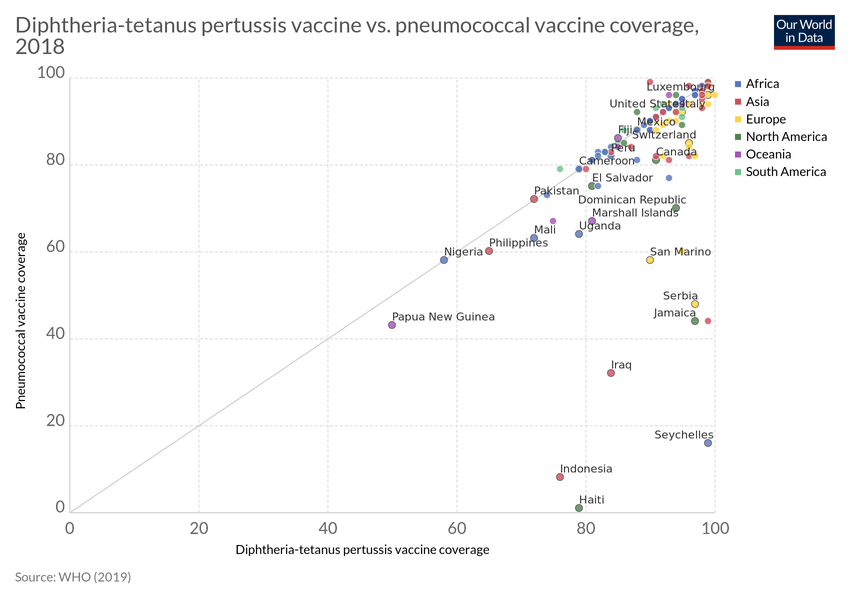
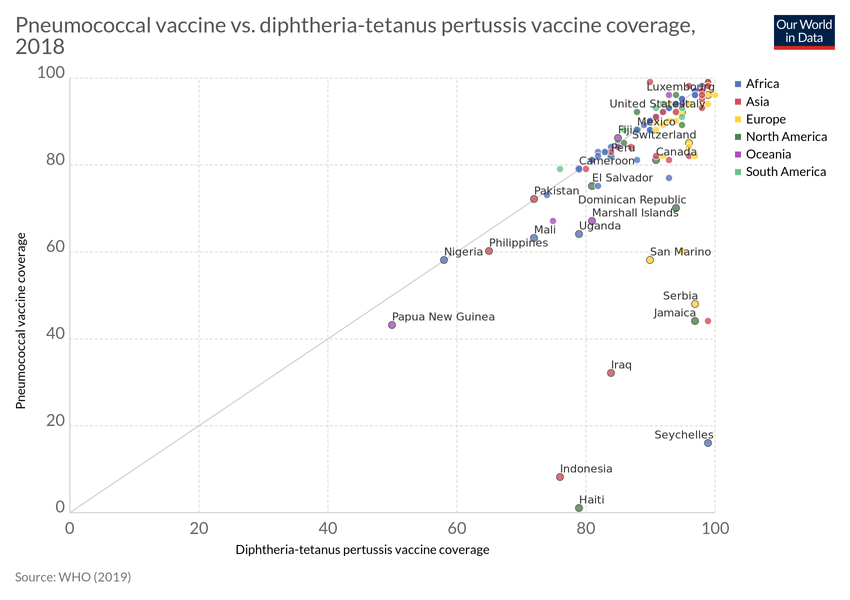
Updating chart diphtheria-tetanus-pertussis-vaccine-vs-pneumococcal-vaccine-coverage

Changed region(s): [[0.0, 0.03, 0.8259, 0.06]]

diff --git a/grapher/diphtheria-tetanus-pertussis-vaccine-vs-pneumococcal-vaccine-coverage.html b/grapher/diphtheria-tetanus-pertussis-vaccine-vs-pneumococcal-vaccine-coverage.html
@@ -1,11 +1,11 @@
-<!doctype html><html><head><meta name="viewport" content="width=device-width, initial-scale=1"/><title>Diphtheria-tetanus pertussis vaccine vs. pneumococcal vaccine coverage - Our World in Data</title><meta name="description" content="An interactive visualization from Our World in Data."/><link rel="canonical" href="https://ourworldindata.org/grapher/diphtheria-tetanus-pertussis-vaccine-vs-pneumococcal-vaccine-coverage"/><link rel="alternate" type="application/atom+xml" href="/atom.xml"/><link rel="apple-touch-icon" sizes="180x180" href="/apple-touch-icon.png"/><meta property="fb:app_id" content="1149943818390250"/><meta property="og:url" content="https://ourworldindata.org/grapher/diphtheria-tetanus-pertussis-vaccine-vs-pneumococcal-vaccine-coverage"/><meta property="og:title" content="Diphtheria-tetanus pertussis vaccine vs. pneumococcal vaccine coverage"/><meta property="og:description" content="An interactive visualization from Our World in Data."/><meta property="og:image" content="https://ourworldindata.org/grapher/exports/diphtheria-tetanus-pertussis-vaccine-vs-pneumococcal-vaccine-coverage.png?v=5"/><meta property="og:site_name" content="Our World in Data"/><meta name="twitter:card" content="summary_large_image"/><meta name="twitter:site" content="@OurWorldInData"/><meta name="twitter:creator" content="@OurWorldInData"/><meta name="twitter:title" content="Diphtheria-tetanus pertussis vaccine vs. pneumococcal vaccine coverage"/><meta name="twitter:description" content="An interactive visualization from Our World in Data."/><meta name="twitter:image" content="https://ourworldindata.org/grapher/exports/diphtheria-tetanus-pertussis-vaccine-vs-pneumococcal-vaccine-coverage.png?v=5"/><link href="https://fonts.googleapis.com/css?family=Lato:300,400,400i,700,700i|Playfair+Display:400,700" rel="stylesheet"/><link rel="stylesheet" href="https://ourworldindata.org/assets/css/commons.css"/><link rel="stylesheet" href="https://ourworldindata.org/assets/css/owid.css"/><meta property="og:image:width" content="850"/><meta property="og:image:height" content="600"/><script>
+<!doctype html><html><head><meta name="viewport" content="width=device-width, initial-scale=1"/><title>Pneumococcal vaccine vs. diphtheria-tetanus pertussis vaccine coverage - Our World in Data</title><meta name="description" content="An interactive visualization from Our World in Data."/><link rel="canonical" href="https://ourworldindata.org/grapher/diphtheria-tetanus-pertussis-vaccine-vs-pneumococcal-vaccine-coverage"/><link rel="alternate" type="application/atom+xml" href="/atom.xml"/><link rel="apple-touch-icon" sizes="180x180" href="/apple-touch-icon.png"/><meta property="fb:app_id" content="1149943818390250"/><meta property="og:url" content="https://ourworldindata.org/grapher/diphtheria-tetanus-pertussis-vaccine-vs-pneumococcal-vaccine-coverage"/><meta property="og:title" content="Pneumococcal vaccine vs. diphtheria-tetanus pertussis vaccine coverage"/><meta property="og:description" content="An interactive visualization from Our World in Data."/><meta property="og:image" content="https://ourworldindata.org/grapher/exports/diphtheria-tetanus-pertussis-vaccine-vs-pneumococcal-vaccine-coverage.png?v=9"/><meta property="og:site_name" content="Our World in Data"/><meta name="twitter:card" content="summary_large_image"/><meta name="twitter:site" content="@OurWorldInData"/><meta name="twitter:creator" content="@OurWorldInData"/><meta name="twitter:title" content="Pneumococcal vaccine vs. diphtheria-tetanus pertussis vaccine coverage"/><meta name="twitter:description" content="An interactive visualization from Our World in Data."/><meta name="twitter:image" content="https://ourworldindata.org/grapher/exports/diphtheria-tetanus-pertussis-vaccine-vs-pneumococcal-vaccine-coverage.png?v=9"/><link href="https://fonts.googleapis.com/css?family=Lato:300,400,400i,700,700i|Playfair+Display:400,700" rel="stylesheet"/><link rel="stylesheet" href="https://ourworldindata.org/assets/css/commons.css"/><link rel="stylesheet" href="https://ourworldindata.org/assets/css/owid.css"/><meta property="og:image:width" content="850"/><meta property="og:image:height" content="600"/><script>
     if (window != window.top) {
         document.documentElement.classList.add('iframe')
     }
 </script><noscript><style>
                     figure { display: none !important; }
-                </style></noscript><link rel="stylesheet" href="https://ourworldindata.org/assets/css/commons.css"/><link rel="preload" href="/grapher/data/variables/104660+104697+123.json?v=5" as="fetch" crossorigin="anonymous"/></head><body class="ChartPage"><header class="site-header"><div class="wrapper site-navigation-bar"><div class="site-logo"><a href="/">Our World<br/> in Data</a></div><nav class="site-navigation lg-only"><div class="topics-button-wrapper"><a href="/#entries" class="topics-button"><div class="label">Research <br/><strong>by topic</strong></div><div class="icon"><svg width="12" height="6"><path d="M0,0 L12,0 L6,6 Z" fill="currentColor"></path></svg></div></a></div><div><div class="site-primary-navigation"><form class="HeaderSearch" action="/search" method="GET"><input type="search" name="q" placeholder="Search..."/><div class="icon"><svg aria-hidden="true" focusable="false" data-prefix="fas" data-icon="search" class="svg-inline--fa fa-search fa-w-16 " role="img" xmlns="http://www.w3.org/2000/svg" viewBox="0 0 512 512"><path fill="currentColor" d="M505 442.7L405.3 343c-4.5-4.5-10.6-7-17-7H372c27.6-35.3 44-79.7 44-128C416 93.1 322.9 0 208 0S0 93.1 0 208s93.1 208 208 208c48.3 0 92.7-16.4 128-44v16.3c0 6.4 2.5 12.5 7 17l99.7 99.7c9.4 9.4 24.6 9.4 33.9 0l28.3-28.3c9.4-9.4 9.4-24.6.1-34zM208 336c-70.7 0-128-57.2-128-128 0-70.7 57.2-128 128-128 70.7 0 128 57.2 128 128 0 70.7-57.2 128-128 128z"></path></svg></div></form><ul class="site-primary-links"><li><a href="/blog" data-track-click="true" data-track-note="header-navigation">Latest</a></li><li><a href="/about" data-track-click="true" data-track-note="header-navigation">About</a></li><li><a href="/donate" data-track-click="true" data-track-note="header-navigation">Donate</a></li></ul></div><div class="site-secondary-navigation"><ul class="site-secondary-links"><li><a href="/charts" data-track-click="true" data-track-note="header-navigation">All charts</a></li><li><a href="https://sdg-tracker.org" data-track-click="true" data-track-note="header-navigation">Sustainable Development Goals Tracker</a></li></ul></div></div></nav><ul class="site-social-links lg-only"><li><a href="https://twitter.com/ourworldindata" target="_blank" rel="noopener noreferrer" title="Follow us on Twitter" data-track-click="true" data-track-note="header-navigation"><svg aria-hidden="true" focusable="false" data-prefix="fab" data-icon="twitter" class="svg-inline--fa fa-twitter fa-w-16 " role="img" xmlns="http://www.w3.org/2000/svg" viewBox="0 0 512 512"><path fill="currentColor" d="M459.37 151.716c.325 4.548.325 9.097.325 13.645 0 138.72-105.583 298.558-298.558 298.558-59.452 0-114.68-17.219-161.137-47.106 8.447.974 16.568 1.299 25.34 1.299 49.055 0 94.213-16.568 130.274-44.832-46.132-.975-84.792-31.188-98.112-72.772 6.498.974 12.995 1.624 19.818 1.624 9.421 0 18.843-1.3 27.614-3.573-48.081-9.747-84.143-51.98-84.143-102.985v-1.299c13.969 7.797 30.214 12.67 47.431 13.319-28.264-18.843-46.781-51.005-46.781-87.391 0-19.492 5.197-37.36 14.294-52.954 51.655 63.675 129.3 105.258 216.365 109.807-1.624-7.797-2.599-15.918-2.599-24.04 0-57.828 46.782-104.934 104.934-104.934 30.213 0 57.502 12.67 76.67 33.137 23.715-4.548 46.456-13.32 66.599-25.34-7.798 24.366-24.366 44.833-46.132 57.827 21.117-2.273 41.584-8.122 60.426-16.243-14.292 20.791-32.161 39.308-52.628 54.253z"></path></svg></a></li><li><a href="https://www.facebook.com/OurWorldinData/" target="_blank" rel="noopener noreferrer" title="Subscribe to our Facebook page" data-track-click="true" data-track-note="header-navigation"><svg aria-hidden="true" focusable="false" data-prefix="fab" data-icon="facebook-square" class="svg-inline--fa fa-facebook-square fa-w-14 " role="img" xmlns="http://www.w3.org/2000/svg" viewBox="0 0 448 512"><path fill="currentColor" d="M400 32H48A48 48 0 0 0 0 80v352a48 48 0 0 0 48 48h137.25V327.69h-63V256h63v-54.64c0-62.15 37-96.48 93.67-96.48 27.14 0 55.52 4.84 55.52 4.84v61h-31.27c-30.81 0-40.42 19.12-40.42 38.73V256h68.78l-11 71.69h-57.78V480H400a48 48 0 0 0 48-48V80a48 48 0 0 0-48-48z"></path></svg></a></li><li><a href="/subscribe" target="_blank" rel="noopener noreferrer" title="Subscribe to our newsletter" data-track-click="true" data-track-note="header-navigation"><svg aria-hidden="true" focusable="false" data-prefix="fas" data-icon="envelope" class="svg-inline--fa fa-envelope fa-w-16 " role="img" xmlns="http://www.w3.org/2000/svg" viewBox="0 0 512 512"><path fill="currentColor" d="M502.3 190.8c3.9-3.1 9.7-.2 9.7 4.7V400c0 26.5-21.5 48-48 48H48c-26.5 0-48-21.5-48-48V195.6c0-5 5.7-7.8 9.7-4.7 22.4 17.4 52.1 39.5 154.1 113.6 21.1 15.4 56.7 47.8 92.2 47.6 35.7.3 72-32.8 92.3-47.6 102-74.1 131.6-96.3 154-113.7zM256 320c23.2.4 56.6-29.2 73.4-41.4 132.7-96.3 142.8-104.7 173.4-128.7 5.8-4.5 9.2-11.5 9.2-18.9v-19c0-26.5-21.5-48-48-48H48C21.5 64 0 85.5 0 112v19c0 7.4 3.4 14.3 9.2 18.9 30.6 23.9 40.7 32.4 173.4 128.7 16.8 12.2 50.2 41.8 73.4 41.4z"></path></svg></a></li></ul><div class="site-navigation sm-only"><button data-track-click="true" data-track-note="mobile-search-button"><svg aria-hidden="true" focusable="false" data-prefix="fas" data-icon="search" class="svg-inline--fa fa-search fa-w-16 " role="img" xmlns="http://www.w3.org/2000/svg" viewBox="0 0 512 512"><path fill="currentColor" d="M505 442.7L405.3 343c-4.5-4.5-10.6-7-17-7H372c27.6-35.3 44-79.7 44-128C416 93.1 322.9 0 208 0S0 93.1 0 208s93.1 208 208 208c48.3 0 92.7-16.4 128-44v16.3c0 6.4 2.5 12.5 7 17l99.7 99.7c9.4 9.4 24.6 9.4 33.9 0l28.3-28.3c9.4-9.4 9.4-24.6.1-34zM208 336c-70.7 0-128-57.2-128-128 0-70.7 57.2-128 128-128 70.7 0 128 57.2 128 128 0 70.7-57.2 128-128 128z"></path></svg></button><button data-track-click="true" data-track-note="mobile-hamburger-button"><svg aria-hidden="true" focusable="false" data-prefix="fas" data-icon="bars" class="svg-inline--fa fa-bars fa-w-14 " role="img" xmlns="http://www.w3.org/2000/svg" viewBox="0 0 448 512"><path fill="currentColor" d="M16 132h416c8.837 0 16-7.163 16-16V76c0-8.837-7.163-16-16-16H16C7.163 60 0 67.163 0 76v40c0 8.837 7.163 16 16 16zm0 160h416c8.837 0 16-7.163 16-16v-40c0-8.837-7.163-16-16-16H16c-8.837 0-16 7.163-16 16v40c0 8.837 7.163 16 16 16zm0 160h416c8.837 0 16-7.163 16-16v-40c0-8.837-7.163-16-16-16H16c-8.837 0-16 7.163-16 16v40c0 8.837 7.163 16 16 16z"></path></svg></button></div></div></header><main><figure data-grapher-src="/grapher/diphtheria-tetanus-pertussis-vaccine-vs-pneumococcal-vaccine-coverage"></figure><noscript id="fallback"><h1>Diphtheria-tetanus pertussis vaccine vs. pneumococcal vaccine coverage</h1><p></p><img src="https://ourworldindata.org/grapher/exports/diphtheria-tetanus-pertussis-vaccine-vs-pneumococcal-vaccine-coverage.svg"/><p>Interactive visualization requires JavaScript</p></noscript></main><script src="https://cdn.polyfill.io/v2/polyfill.min.js?features=es6,fetch"></script><script src="https://ourworldindata.org/assets/js/commons.js"></script><script src="https://ourworldindata.org/assets/js/owid.js"></script><script>
-        var jsonConfig = {"id":3617,"map":{"projection":"World","colorSchemeLabels":[],"colorSchemeValues":[],"customNumericColors":[],"customCategoryColors":{},"customCategoryLabels":{},"customHiddenCategories":{}},"tab":"chart","data":{"availableEntities":["Afghanistan","Albania","Algeria","Andorra","Angola","Antigua and Barbuda","Argentina","Armenia","Australia","Azerbaijan","Bahamas","Bahrain","Bangladesh","Barbados","Belarus","Belgium","Benin","Bolivia","Botswana","Brazil","Bulgaria","Burkina Faso","Burundi","Cambodia","Cameroon","Canada","Central African Republic","Chile","Colombia","Congo","Costa Rica","Cote d'Ivoire","Cyprus","Democratic Republic of Congo","Denmark","Djibouti","Dominican Republic","Ecuador","El Salvador","Eritrea","Ethiopia","Fiji","Finland","France","Gambia","Georgia","Germany","Ghana","Greece","Guatemala","Guinea-Bissau","Guyana","Haiti","Honduras","Hungary","Iceland","India","Indonesia","Iraq","Ireland","Israel","Italy","Jamaica","Japan","Kazakhstan","Kenya","Kiribati","Kuwait","Kyrgyzstan","Laos","Latvia","Lebanon","Lesotho","Liberia","Libya","Lithuania","Luxembourg","Madagascar","Malawi","Mali","Marshall Islands","Mauritania","Mauritius","Mexico","Micronesia (country)","Moldova","Mongolia","Morocco","Mozambique","Myanmar","Namibia","Nepal","Netherlands","New Zealand","Nicaragua","Niger","Nigeria","Niue","Norway","Oman","Pakistan","Palau","Panama","Papua New Guinea","Paraguay","Peru","Philippines","Poland","Portugal","Qatar","Russia","Rwanda","San Marino","Sao Tome and Principe","Saudi Arabia","Senegal","Serbia","Seychelles","Sierra Leone","Singapore","Slovakia","Slovenia","Solomon Islands","South Africa","South Korea","Spain","Sudan","Swaziland","Sweden","Switzerland","Tanzania","Togo","Tonga","Trinidad and Tobago","Turkey","Uganda","United Arab Emirates","United Kingdom","United States","Uruguay","Uzbekistan","Venezuela","Yemen","Zambia","Zimbabwe"]},"slug":"diphtheria-tetanus-pertussis-vaccine-vs-pneumococcal-vaccine-coverage","type":"ScatterPlot","title":"Diphtheria-tetanus pertussis vaccine vs. pneumococcal vaccine coverage","xAxis":{"max":100,"min":0,"scaleType":"linear"},"yAxis":{"max":100,"min":0,"scaleType":"linear"},"maxTime":2018,"minTime":2018,"version":5,"hasMapTab":false,"stackMode":"absolute","dimensions":[{"display":{"name":"Pneumococcal vaccine coverage"},"property":"y","variableId":104660},{"display":{"name":"Diphtheria-tetanus pertussis vaccine coverage"},"property":"x","variableId":104697},{"display":{},"property":"color","variableId":123}],"sourceDesc":"WHO (2019)","hasChartTab":true,"isPublished":true,"selectedData":[],"comparisonLines":[{}],"hideRelativeToggle":true};
+                </style></noscript><link rel="stylesheet" href="https://ourworldindata.org/assets/css/commons.css"/><link rel="preload" href="/grapher/data/variables/104660+104697+123.json?v=9" as="fetch" crossorigin="anonymous"/></head><body class="ChartPage"><header class="site-header"><div class="wrapper site-navigation-bar"><div class="site-logo"><a href="/">Our World<br/> in Data</a></div><nav class="site-navigation lg-only"><div class="topics-button-wrapper"><a href="/#entries" class="topics-button"><div class="label">Research <br/><strong>by topic</strong></div><div class="icon"><svg width="12" height="6"><path d="M0,0 L12,0 L6,6 Z" fill="currentColor"></path></svg></div></a></div><div><div class="site-primary-navigation"><form class="HeaderSearch" action="/search" method="GET"><input type="search" name="q" placeholder="Search..."/><div class="icon"><svg aria-hidden="true" focusable="false" data-prefix="fas" data-icon="search" class="svg-inline--fa fa-search fa-w-16 " role="img" xmlns="http://www.w3.org/2000/svg" viewBox="0 0 512 512"><path fill="currentColor" d="M505 442.7L405.3 343c-4.5-4.5-10.6-7-17-7H372c27.6-35.3 44-79.7 44-128C416 93.1 322.9 0 208 0S0 93.1 0 208s93.1 208 208 208c48.3 0 92.7-16.4 128-44v16.3c0 6.4 2.5 12.5 7 17l99.7 99.7c9.4 9.4 24.6 9.4 33.9 0l28.3-28.3c9.4-9.4 9.4-24.6.1-34zM208 336c-70.7 0-128-57.2-128-128 0-70.7 57.2-128 128-128 70.7 0 128 57.2 128 128 0 70.7-57.2 128-128 128z"></path></svg></div></form><ul class="site-primary-links"><li><a href="/blog" data-track-click="true" data-track-note="header-navigation">Latest</a></li><li><a href="/about" data-track-click="true" data-track-note="header-navigation">About</a></li><li><a href="/donate" data-track-click="true" data-track-note="header-navigation">Donate</a></li></ul></div><div class="site-secondary-navigation"><ul class="site-secondary-links"><li><a href="/charts" data-track-click="true" data-track-note="header-navigation">All charts</a></li><li><a href="https://sdg-tracker.org" data-track-click="true" data-track-note="header-navigation">Sustainable Development Goals Tracker</a></li></ul></div></div></nav><ul class="site-social-links lg-only"><li><a href="https://twitter.com/ourworldindata" target="_blank" rel="noopener noreferrer" title="Follow us on Twitter" data-track-click="true" data-track-note="header-navigation"><svg aria-hidden="true" focusable="false" data-prefix="fab" data-icon="twitter" class="svg-inline--fa fa-twitter fa-w-16 " role="img" xmlns="http://www.w3.org/2000/svg" viewBox="0 0 512 512"><path fill="currentColor" d="M459.37 151.716c.325 4.548.325 9.097.325 13.645 0 138.72-105.583 298.558-298.558 298.558-59.452 0-114.68-17.219-161.137-47.106 8.447.974 16.568 1.299 25.34 1.299 49.055 0 94.213-16.568 130.274-44.832-46.132-.975-84.792-31.188-98.112-72.772 6.498.974 12.995 1.624 19.818 1.624 9.421 0 18.843-1.3 27.614-3.573-48.081-9.747-84.143-51.98-84.143-102.985v-1.299c13.969 7.797 30.214 12.67 47.431 13.319-28.264-18.843-46.781-51.005-46.781-87.391 0-19.492 5.197-37.36 14.294-52.954 51.655 63.675 129.3 105.258 216.365 109.807-1.624-7.797-2.599-15.918-2.599-24.04 0-57.828 46.782-104.934 104.934-104.934 30.213 0 57.502 12.67 76.67 33.137 23.715-4.548 46.456-13.32 66.599-25.34-7.798 24.366-24.366 44.833-46.132 57.827 21.117-2.273 41.584-8.122 60.426-16.243-14.292 20.791-32.161 39.308-52.628 54.253z"></path></svg></a></li><li><a href="https://www.facebook.com/OurWorldinData/" target="_blank" rel="noopener noreferrer" title="Subscribe to our Facebook page" data-track-click="true" data-track-note="header-navigation"><svg aria-hidden="true" focusable="false" data-prefix="fab" data-icon="facebook-square" class="svg-inline--fa fa-facebook-square fa-w-14 " role="img" xmlns="http://www.w3.org/2000/svg" viewBox="0 0 448 512"><path fill="currentColor" d="M400 32H48A48 48 0 0 0 0 80v352a48 48 0 0 0 48 48h137.25V327.69h-63V256h63v-54.64c0-62.15 37-96.48 93.67-96.48 27.14 0 55.52 4.84 55.52 4.84v61h-31.27c-30.81 0-40.42 19.12-40.42 38.73V256h68.78l-11 71.69h-57.78V480H400a48 48 0 0 0 48-48V80a48 48 0 0 0-48-48z"></path></svg></a></li><li><a href="/subscribe" target="_blank" rel="noopener noreferrer" title="Subscribe to our newsletter" data-track-click="true" data-track-note="header-navigation"><svg aria-hidden="true" focusable="false" data-prefix="fas" data-icon="envelope" class="svg-inline--fa fa-envelope fa-w-16 " role="img" xmlns="http://www.w3.org/2000/svg" viewBox="0 0 512 512"><path fill="currentColor" d="M502.3 190.8c3.9-3.1 9.7-.2 9.7 4.7V400c0 26.5-21.5 48-48 48H48c-26.5 0-48-21.5-48-48V195.6c0-5 5.7-7.8 9.7-4.7 22.4 17.4 52.1 39.5 154.1 113.6 21.1 15.4 56.7 47.8 92.2 47.6 35.7.3 72-32.8 92.3-47.6 102-74.1 131.6-96.3 154-113.7zM256 320c23.2.4 56.6-29.2 73.4-41.4 132.7-96.3 142.8-104.7 173.4-128.7 5.8-4.5 9.2-11.5 9.2-18.9v-19c0-26.5-21.5-48-48-48H48C21.5 64 0 85.5 0 112v19c0 7.4 3.4 14.3 9.2 18.9 30.6 23.9 40.7 32.4 173.4 128.7 16.8 12.2 50.2 41.8 73.4 41.4z"></path></svg></a></li></ul><div class="site-navigation sm-only"><button data-track-click="true" data-track-note="mobile-search-button"><svg aria-hidden="true" focusable="false" data-prefix="fas" data-icon="search" class="svg-inline--fa fa-search fa-w-16 " role="img" xmlns="http://www.w3.org/2000/svg" viewBox="0 0 512 512"><path fill="currentColor" d="M505 442.7L405.3 343c-4.5-4.5-10.6-7-17-7H372c27.6-35.3 44-79.7 44-128C416 93.1 322.9 0 208 0S0 93.1 0 208s93.1 208 208 208c48.3 0 92.7-16.4 128-44v16.3c0 6.4 2.5 12.5 7 17l99.7 99.7c9.4 9.4 24.6 9.4 33.9 0l28.3-28.3c9.4-9.4 9.4-24.6.1-34zM208 336c-70.7 0-128-57.2-128-128 0-70.7 57.2-128 128-128 70.7 0 128 57.2 128 128 0 70.7-57.2 128-128 128z"></path></svg></button><button data-track-click="true" data-track-note="mobile-hamburger-button"><svg aria-hidden="true" focusable="false" data-prefix="fas" data-icon="bars" class="svg-inline--fa fa-bars fa-w-14 " role="img" xmlns="http://www.w3.org/2000/svg" viewBox="0 0 448 512"><path fill="currentColor" d="M16 132h416c8.837 0 16-7.163 16-16V76c0-8.837-7.163-16-16-16H16C7.163 60 0 67.163 0 76v40c0 8.837 7.163 16 16 16zm0 160h416c8.837 0 16-7.163 16-16v-40c0-8.837-7.163-16-16-16H16c-8.837 0-16 7.163-16 16v40c0 8.837 7.163 16 16 16zm0 160h416c8.837 0 16-7.163 16-16v-40c0-8.837-7.163-16-16-16H16c-8.837 0-16 7.163-16 16v40c0 8.837 7.163 16 16 16z"></path></svg></button></div></div></header><main><figure data-grapher-src="/grapher/diphtheria-tetanus-pertussis-vaccine-vs-pneumococcal-vaccine-coverage"></figure><noscript id="fallback"><h1>Pneumococcal vaccine vs. diphtheria-tetanus pertussis vaccine coverage</h1><p></p><img src="https://ourworldindata.org/grapher/exports/diphtheria-tetanus-pertussis-vaccine-vs-pneumococcal-vaccine-coverage.svg"/><p>Interactive visualization requires JavaScript</p></noscript></main><script src="https://cdn.polyfill.io/v2/polyfill.min.js?features=es6,fetch"></script><script src="https://ourworldindata.org/assets/js/commons.js"></script><script src="https://ourworldindata.org/assets/js/owid.js"></script><script>
+        var jsonConfig = {"id":3617,"map":{"projection":"World","colorSchemeLabels":[],"colorSchemeValues":[],"customNumericColors":[],"customCategoryColors":{},"customCategoryLabels":{},"customHiddenCategories":{}},"tab":"chart","data":{"availableEntities":["Afghanistan","Albania","Algeria","Andorra","Angola","Antigua and Barbuda","Argentina","Armenia","Australia","Azerbaijan","Bahamas","Bahrain","Bangladesh","Barbados","Belarus","Belgium","Benin","Bolivia","Botswana","Brazil","Bulgaria","Burkina Faso","Burundi","Cambodia","Cameroon","Canada","Central African Republic","Chile","Colombia","Congo","Costa Rica","Cote d'Ivoire","Cyprus","Democratic Republic of Congo","Denmark","Djibouti","Dominican Republic","Ecuador","El Salvador","Eritrea","Ethiopia","Fiji","Finland","France","Gambia","Georgia","Germany","Ghana","Greece","Guatemala","Guinea-Bissau","Guyana","Haiti","Honduras","Hungary","Iceland","India","Indonesia","Iraq","Ireland","Israel","Italy","Jamaica","Japan","Kazakhstan","Kenya","Kiribati","Kuwait","Kyrgyzstan","Laos","Latvia","Lebanon","Lesotho","Liberia","Libya","Lithuania","Luxembourg","Madagascar","Malawi","Mali","Marshall Islands","Mauritania","Mauritius","Mexico","Micronesia (country)","Moldova","Mongolia","Morocco","Mozambique","Myanmar","Namibia","Nepal","Netherlands","New Zealand","Nicaragua","Niger","Nigeria","Niue","Norway","Oman","Pakistan","Palau","Panama","Papua New Guinea","Paraguay","Peru","Philippines","Poland","Portugal","Qatar","Russia","Rwanda","San Marino","Sao Tome and Principe","Saudi Arabia","Senegal","Serbia","Seychelles","Sierra Leone","Singapore","Slovakia","Slovenia","Solomon Islands","South Africa","South Korea","Spain","Sudan","Swaziland","Sweden","Switzerland","Tanzania","Togo","Tonga","Trinidad and Tobago","Turkey","Uganda","United Arab Emirates","United Kingdom","United States","Uruguay","Uzbekistan","Venezuela","Yemen","Zambia","Zimbabwe"]},"slug":"diphtheria-tetanus-pertussis-vaccine-vs-pneumococcal-vaccine-coverage","type":"ScatterPlot","title":"Pneumococcal vaccine vs. diphtheria-tetanus pertussis vaccine coverage","xAxis":{"max":100,"min":0,"scaleType":"linear"},"yAxis":{"max":100,"min":0,"scaleType":"linear"},"maxTime":2018,"minTime":2018,"version":9,"hasMapTab":false,"stackMode":"absolute","dimensions":[{"display":{"name":"Pneumococcal vaccine coverage"},"property":"y","variableId":104660},{"display":{"name":"Diphtheria-tetanus pertussis vaccine coverage"},"property":"x","variableId":104697},{"display":{},"property":"color","variableId":123}],"sourceDesc":"WHO (2019)","hasChartTab":true,"isPublished":true,"selectedData":[],"comparisonLines":[{}],"hideRelativeToggle":true};
         var figure = document.getElementsByTagName("figure")[0];
 
         try {
